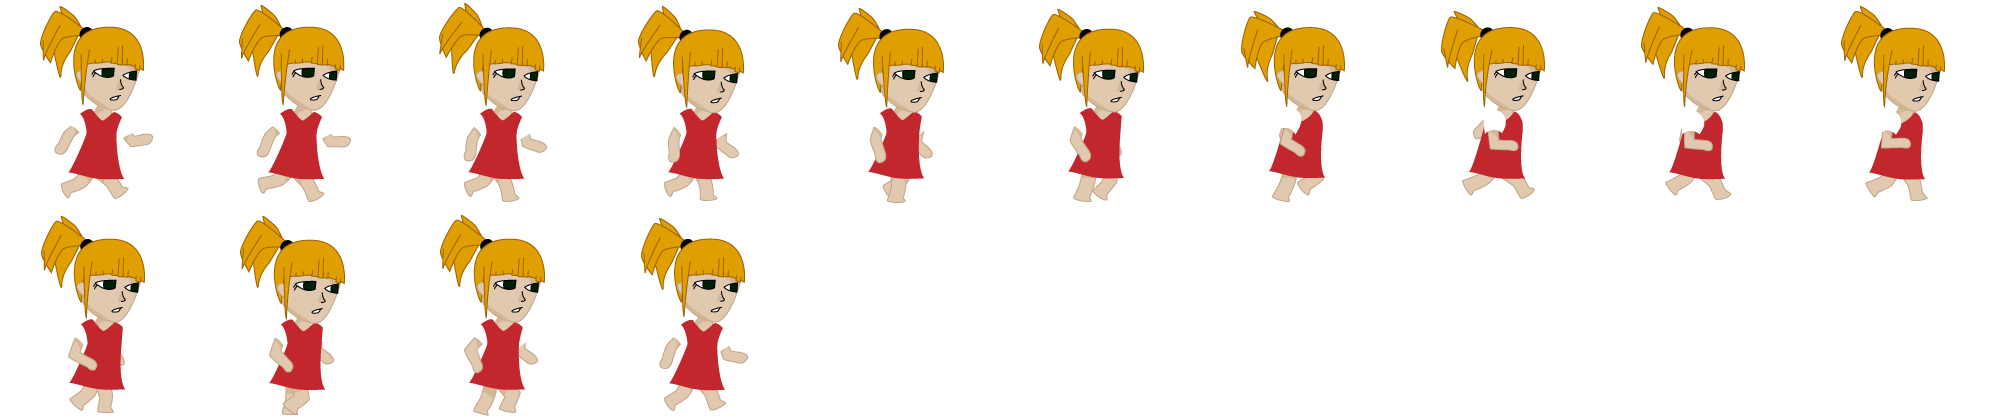
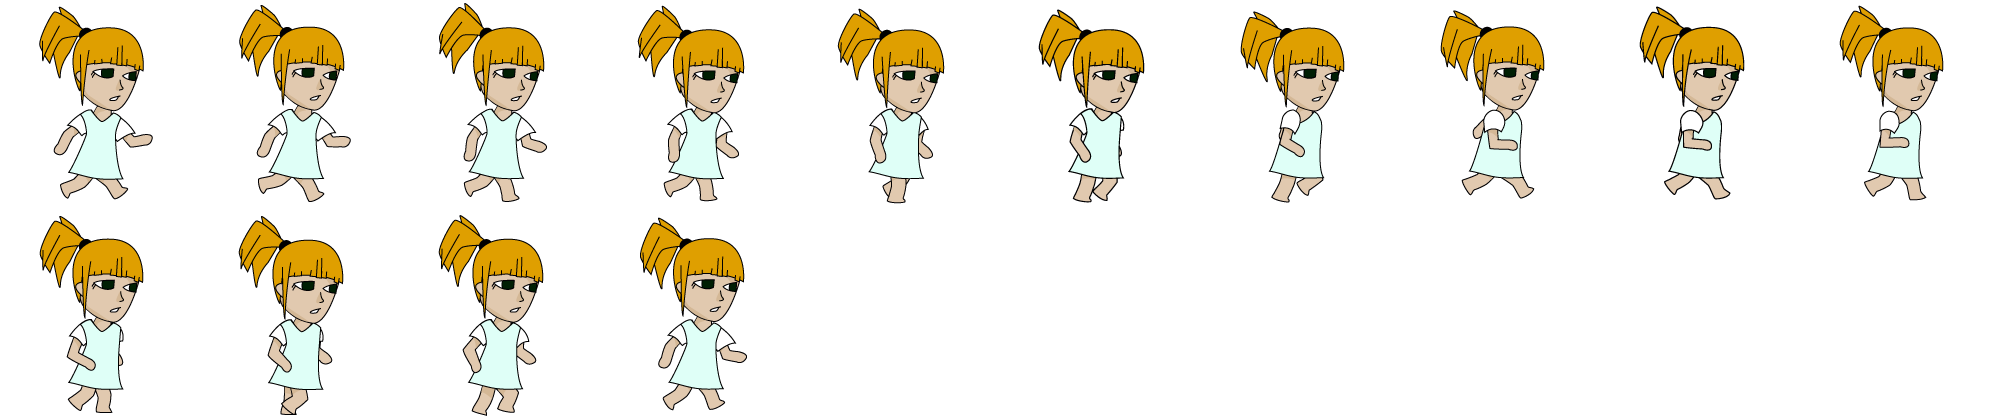
Pushing animation (more or less).

diff --git a/Nobots/Nobots/Nobots/Elements/GrabbingCharacterState.cs b/Nobots/Nobots/Nobots/Elements/GrabbingCharacterState.cs
@@ -16,32 +16,38 @@ namespace Nobots.Elements
         private float touchedBodyFriction;
         private SliderJoint sliderJoint;
 
+        private int rows = 2;
+        private int columns = 4;
+        private int framesInLastRow = 3;
+
         public GrabbingCharacterState(Scene scene, Character character)
             : base(scene, character)
         {
-            texture = scene.Game.Content.Load<Texture2D>("running");//("girl_moving");
-            characterWidth = texture.Width / 10;// 8;
-            characterHeight = texture.Height / 2;///5;
+            texture = scene.Game.Content.Load<Texture2D>("pushing");
+            characterWidth = texture.Width / columns;
+            characterHeight = texture.Height / rows;
             character.texture = texture;
             textureXmin = 0;
             textureYmin = 0;
         }
 
+        bool moving = false;
         public override void Update(GameTime gameTime)
         {
-            changeRunningTextures(gameTime);
+            if (moving)
+                changeRunningTextures(gameTime);
         }
 
         float seconds = 0;
         private Vector2 changeRunningTextures(GameTime gameTime)
         {
             seconds += (float)gameTime.ElapsedGameTime.TotalSeconds;
-            if (seconds > 0.04f)
+            if (seconds > 0.1f)
             {
-                seconds -= 0.04f;
-                textureXmin += texture.Width / 10;
+                seconds -= 0.1f;
+                textureXmin += texture.Width / columns;
 
-                if (textureXmin == (texture.Width / 10) * 4 && textureYmin == texture.Height / 2)
+                if (textureXmin == (texture.Width / columns) * framesInLastRow && textureYmin == texture.Height / rows)
                 {
                     textureXmin = 0;
                     textureYmin = 0;
@@ -49,7 +55,7 @@ namespace Nobots.Elements
                 else if (textureXmin == texture.Width)
                 {
                     textureXmin = 0;
-                    textureYmin += texture.Height / 2;
+                    textureYmin += texture.Height / rows;
                 }
             }
 
@@ -101,6 +107,7 @@ namespace Nobots.Elements
 
         public override void RightAction()
         {
+            moving = true;
             if (character.touchedBody != null && ((character.touchedBody.UserData is IPushable && character.Position.X < character.touchedBody.Position.X) ||
                 (character.touchedBody.UserData is IPullable && character.Position.X > character.touchedBody.Position.X)))
             {
@@ -112,6 +119,7 @@ namespace Nobots.Elements
 
         public override void LeftAction()
         {
+            moving = true;
             if (character.touchedBody != null && ((character.touchedBody.UserData is IPushable && character.Position.X > character.touchedBody.Position.X) ||
                 (character.touchedBody.UserData is IPullable && character.Position.X < character.touchedBody.Position.X)))
             {
@@ -123,6 +131,7 @@ namespace Nobots.Elements
 
         public override void RightActionStop()
         {
+            moving = false;
             character.body.FixedRotation = true;
             character.torso.LinearVelocity = Vector2.UnitY * character.torso.LinearVelocity;
             character.body.AngularVelocity = 0;
@@ -132,6 +141,7 @@ namespace Nobots.Elements
 
         public override void LeftActionStop()
         {
+            moving = false;
             character.body.FixedRotation = true;
             character.torso.LinearVelocity = Vector2.UnitY * character.torso.LinearVelocity;
             character.body.AngularVelocity = 0;
